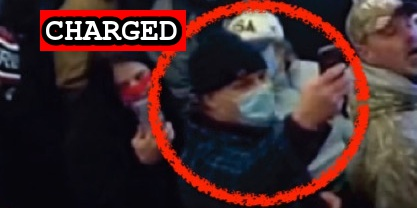
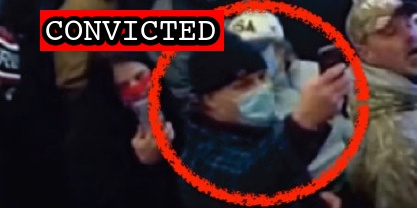
Missing convictions and sentences

Changed region(s): [[0.0935, 0.0288, 0.5612, 0.2596]]

diff --git a/docs/_suspects/nicholas-rodean.md b/docs/_suspects/nicholas-rodean.md
@@ -4,13 +4,13 @@ lastName: Rodean
 hashtag: NicholasRodean
 aka:
 residence: Maryland
-status: Convicted
+status: Sentenced
 date: 2021-01-13
 charged: 2021-01-13
 indicted: 2021-01-29
 convicted: 2022-07-12
 acquitted:
-sentenced:
+sentenced: 2022-10-26
 dismissed:
 deceased:
 plea_hearing:
@@ -40,36 +40,40 @@ caseName: USA v. RODEAN
 judge: Trevor N. McFadden
 videos:
 charges:
-- code: 18 USC § 1361
-  title: Destruction of Government Property
-  url: https://www.law.cornell.edu/uscode/text/18/1361
-  felony: true
-- code: 18 USC § 1752(a)(1)
-  title: Entering a restricted building or grounds
-  url: https://www.law.cornell.edu/uscode/text/18/1752
-  felony: false
-- code: 18 USC § 1752(a)(2)
-  title: Disorderly and disruptive conduct in a restricted building or grounds
-  url: https://www.law.cornell.edu/uscode/text/18/1752
-  felony: false
-- code: 18 USC § 1752(a)(4)
-  title: Engaging in physitical violence in a restricted building
-  url: https://www.law.cornell.edu/uscode/text/18/1752
-  felony: false
-- code: 40 USC § 5104(e)(2)(D)
-  title: Disorderly Conduct in a Capitol Building
-  url: https://www.law.cornell.edu/uscode/text/40/5104
-  felony: false
-- code: 40 USC § 5104(e)(2)(F)
-  title: Act of physical violence on Capitol grounds
-  url: https://www.law.cornell.edu/uscode/text/40/5104
-  felony: false
-- code: 40 USC § 5104(e)(2)(G)
-  title: Parading, Demonstrating or Picketing in a Capitol Building
-  url: https://www.law.cornell.edu/uscode/text/40/5104
-  felony: false
+  - code: 18 USC § 1361
+    title: Destruction of Government Property
+    url: https://www.law.cornell.edu/uscode/text/18/1361
+    felony: true
+  - code: 18 USC § 1752(a)(1)
+    title: Entering a restricted building or grounds
+    url: https://www.law.cornell.edu/uscode/text/18/1752
+    felony: false
+  - code: 18 USC § 1752(a)(2)
+    title: Disorderly and disruptive conduct in a restricted building or grounds
+    url: https://www.law.cornell.edu/uscode/text/18/1752
+    felony: false
+  - code: 18 USC § 1752(a)(4)
+    title: Engaging in physitical violence in a restricted building
+    url: https://www.law.cornell.edu/uscode/text/18/1752
+    felony: false
+  - code: 40 USC § 5104(e)(2)(D)
+    title: Disorderly Conduct in a Capitol Building
+    url: https://www.law.cornell.edu/uscode/text/40/5104
+    felony: false
+  - code: 40 USC § 5104(e)(2)(F)
+    title: Act of physical violence on Capitol grounds
+    url: https://www.law.cornell.edu/uscode/text/40/5104
+    felony: false
+  - code: 40 USC § 5104(e)(2)(G)
+    title: Parading, Demonstrating or Picketing in a Capitol Building
+    url: https://www.law.cornell.edu/uscode/text/40/5104
+    felony: false
 sentence:
+  - 240 days home confinement
+  - 5 years probation
+  - $2048 restitution
 ---
+
 - [News Report](https://baltimore.cbslocal.com/2021/01/13/maryland-man-nicholas-rodean-who-went-into-us-capitol-during-riots-wearing-work-badge-arrested-on-federal-charges/)
 - [DOJ Press Release](https://www.justice.gov/usao-dc/pr/seven-charged-federal-court-following-events-united-capitol)
 - [Statement of Facts](https://www.justice.gov/usao-dc/press-release/file/1353226/download)

diff --git a/docs/_suspects/willard-bostic.md b/docs/_suspects/willard-bostic.md
@@ -4,16 +4,16 @@ lastName: Bostic
 hashtag:
 aka: Tom Bostic
 residence: Virginia
-status: Charged
+status: Convicted
 date: 2021-10-05
 charged: 2021-10-05
 indicted:
-convicted:
+convicted: 2022-10-25
 acquitted:
 sentenced:
 dismissed:
 deceased:
-plea_hearing: 2022-10-26
+plea_hearing: 2022-10-25
 trial_date:
 trial_type:
 sentencing: 2023-03-09
@@ -40,9 +40,15 @@ caseName: USA v. BOSTIC
 judge: Colleen Kollar-Kotelly
 videos:
 charges:
+- code: 40 USC § 5104(e)(2)(G)
+  title: Parading, demonstrating or picketing in a Capitol building
+  url: https://www.law.cornell.edu/uscode/text/40/5104
+  felony: false
 sentence:
 ---
 - [News Report](https://www.13newsnow.com/article/news/crime/virginia-beach-woman-father-accused-us-capitol-riot-january-6/291-a4b9d125-e63b-414d-8a2a-2bd153af1bae)
 - [Complaint](https://www.justice.gov/usao-dc/case-multi-defendant/file/1457781/download)
 - [Information](https://www.justice.gov/usao-dc/case-multi-defendant/file/1457786/download)
 - [Statement of Facts](https://www.justice.gov/usao-dc/case-multi-defendant/file/1457791/download)
+- [Statement of Offense](https://storage.courtlistener.com/recap/gov.uscourts.dcd.236920/gov.uscourts.dcd.236920.68.0.pdf)
+- [Plea Agreement](https://storage.courtlistener.com/recap/gov.uscourts.dcd.236920/gov.uscourts.dcd.236920.69.0.pdf)

diff --git a/docs/_suspects/elias-irizarry.md b/docs/_suspects/elias-irizarry.md
@@ -16,7 +16,7 @@ deceased:
 plea_hearing: 2022-10-26
 trial_date:
 trial_type:
-sentencing:
+sentencing: 2023-03-15
 status_conference:
 age: 19
 occupation: Student at The Citadel
@@ -40,13 +40,12 @@ caseName: USA v. IRIZARRY
 judge: Tanya S. Chutkan
 videos:
 charges:
-  - code: 18 USC § 1752(a)(1)
-    title: Entering a restricted building or grounds
-    url: https://www.law.cornell.edu/uscode/text/18/1752
-    felony: false
+- code: 18 USC § 1752(a)(1)
+  title: Entering a restricted building or grounds
+  url: https://www.law.cornell.edu/uscode/text/18/1752
+  felony: false
 sentence:
 ---
-
 - [News Report](https://abcnews4.com/news/local/citadel-cadet-charged-in-capitol-riot-probe-bonds-out-of-jail-1st-court-date-set)
 - [Statement of Facts](https://www.justice.gov/usao-dc/case-multi-defendant/file/1386301/download)
 - [Information](https://www.justice.gov/usao-dc/case-multi-defendant/file/1386306/download)

diff --git a/docs/_suspects/karegan-bostic.md b/docs/_suspects/karegan-bostic.md
@@ -13,7 +13,7 @@ acquitted:
 sentenced:
 dismissed:
 deceased:
-plea_hearing: 2022-10-26
+plea_hearing:
 trial_date:
 trial_type:
 sentencing: 2023-03-09
@@ -42,6 +42,7 @@ videos:
 charges:
 sentence:
 ---
+
 - [News Report](https://www.wtkr.com/news/third-member-of-local-family-charged-in-connection-to-riots-at-us-capitol)
 - [Statement of Facts](https://www.justice.gov/usao-dc/case-multi-defendant/file/1509026/download)
 - [Complaint](https://www.justice.gov/usao-dc/case-multi-defendant/file/1509031/download)

diff --git a/docs/_suspects/jordan-bonenberger.md b/docs/_suspects/jordan-bonenberger.md
@@ -13,7 +13,7 @@ acquitted:
 sentenced:
 dismissed:
 deceased:
-plea_hearing: 2022-10-24
+plea_hearing:
 trial_date:
 trial_type:
 sentencing:
@@ -42,6 +42,7 @@ videos:
 charges:
 sentence:
 ---
+
 - [News Report](https://triblive.com/local/regional/cranberry-man-charged-for-alleged-involvement-in-jan-6-capitol-attack/)
 - [Complaint](https://www.justice.gov/usao-dc/case-multi-defendant/file/1485601/download)
 - [Statement of Facts](https://www.justice.gov/usao-dc/case-multi-defendant/file/1485606/download)

diff --git a/docs/_suspects/matthew-dasilva.md b/docs/_suspects/matthew-dasilva.md
@@ -17,7 +17,7 @@ plea_hearing:
 trial_date:
 trial_type:
 sentencing:
-status_conference:
+status_conference: 2022-12-06
 age:
 occupation:
 affiliations:
@@ -36,8 +36,8 @@ author: seditiontrack
 layout: suspect
 published: true
 caseNumber: 21-cr-0564
-caseName:
-judge:
+caseName: USA v. DASILVA
+judge: Carl J. Nichols
 videos:
 charges:
 sentence:

diff --git a/docs/_suspects/rafael-rondon.md b/docs/_suspects/rafael-rondon.md
@@ -13,11 +13,11 @@ acquitted:
 sentenced:
 dismissed:
 deceased:
-plea_hearing:
+plea_hearing: 2022-11-10
 trial_date:
 trial_type:
 sentencing:
-status_conference: 2022-10-26
+status_conference: 2022-11-10
 age: 23
 occupation:
 affiliations:

diff --git a/docs/_suspects/nicholes-lentz.md b/docs/_suspects/nicholes-lentz.md
@@ -36,8 +36,8 @@ author: seditiontrack
 layout: suspect
 published: true
 caseNumber: 22-cr-0053
-caseName:
-judge:
+caseName: USA v. LENTZ
+judge: Randolph D. Moss
 videos:
 charges:
 - code: 18 USC § 1752(a)(1)

diff --git a/docs/_suspects/george-tanios.md b/docs/_suspects/george-tanios.md
@@ -16,7 +16,7 @@ deceased:
 plea_hearing: 2022-07-27
 trial_date:
 trial_type:
-sentencing: 2022-12-06
+sentencing: 2023-01-13
 status_conference:
 age: 39
 occupation: Owner, Sandwich Shop

diff --git a/docs/_suspects/chad-jones.md b/docs/_suspects/chad-jones.md
@@ -17,7 +17,7 @@ plea_hearing:
 trial_date:
 trial_type:
 sentencing:
-status_conference: 2022-10-26
+status_conference: 2023-01-17
 age: 42
 occupation:
 affiliations:

diff --git a/docs/_suspects/michael-eckerman.md b/docs/_suspects/michael-eckerman.md
@@ -17,7 +17,7 @@ plea_hearing:
 trial_date: 2022-11-28
 trial_type:
 sentencing:
-status_conference:
+status_conference: 2022-10-27
 age: 37
 occupation:
 affiliations:

diff --git a/docs/_suspects/julio-baquero.md b/docs/_suspects/julio-baquero.md
@@ -17,7 +17,7 @@ plea_hearing:
 trial_date:
 trial_type:
 sentencing:
-status_conference: 2022-10-28
+status_conference: 2023-01-06
 age:
 occupation:
 affiliations:
